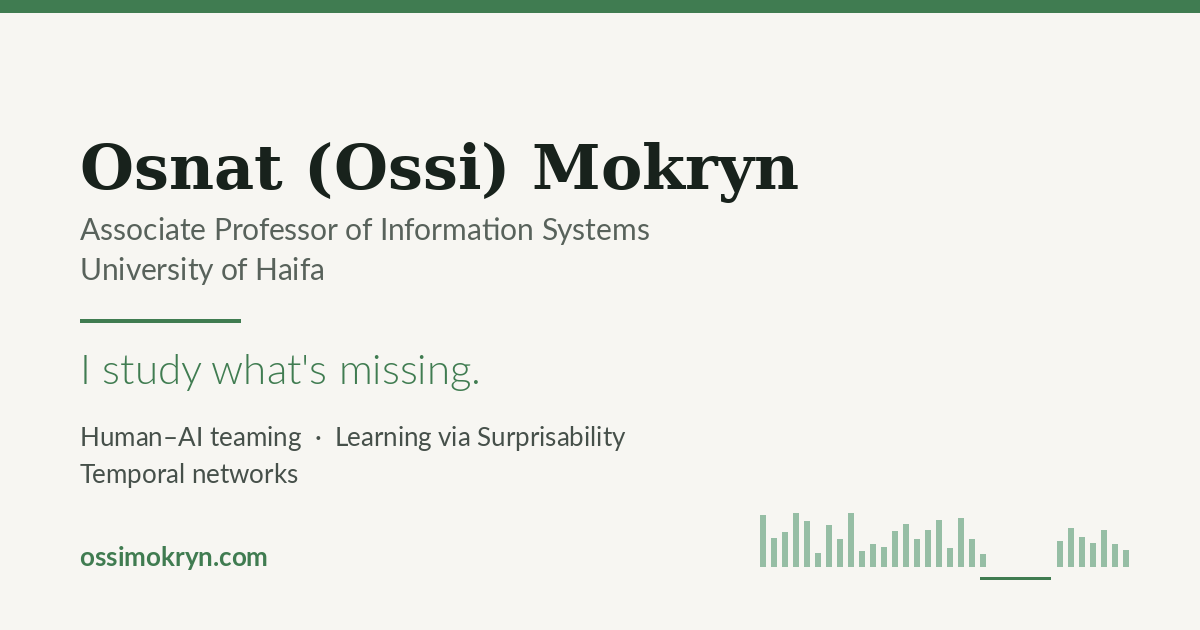
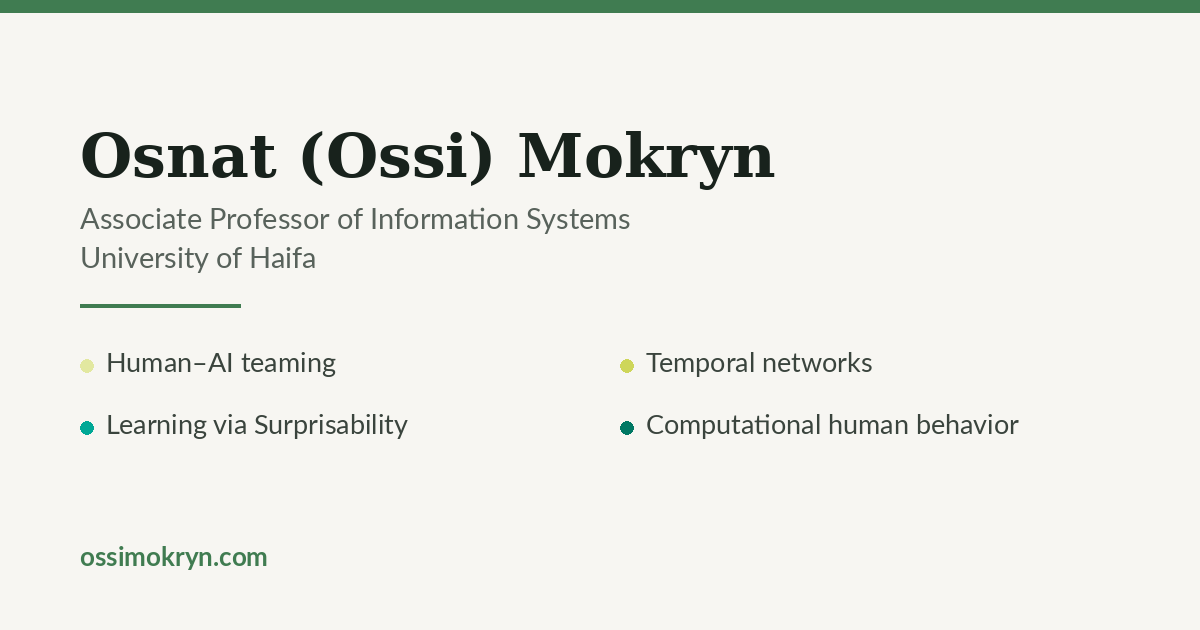
Remove Harvard visiting scholar mention from about page

diff --git a/_pages/about.md b/_pages/about.md
@@ -37,4 +37,4 @@ My research sits where people, AI, and networks meet. Four threads run through i
 
 **Computational human behavior.** I model what people reveal through what they write. We showed that the emotions a viewer felt while watching a film can be recovered from the review they wrote afterwards, and used those emotional signatures to diversify recommendations and to explain what makes a review useful to other readers.
 
-I chair the [ACM IUI Steering Committee](https://iui.acm.org/steering/), serve as an Associate Editor at *ACM Transactions on Interactive Intelligent Systems*, and was a Visiting Scholar at [Harvard's School of Engineering and Applied Sciences](https://seas.harvard.edu/). I hold a Ph.D. in Computer Science from the Hebrew University of Jerusalem, and an M.Sc. and B.Sc. from the Technion. Prospective students: please see the [lab page](/people/) and get in touch.
+I chair the [ACM IUI Steering Committee](https://iui.acm.org/steering/) and serve as an Associate Editor at *ACM Transactions on Interactive Intelligent Systems*. I hold a Ph.D. in Computer Science from the Hebrew University of Jerusalem, and an M.Sc. and B.Sc. from the Technion. Prospective students: please see the [lab page](/people/) and get in touch.
